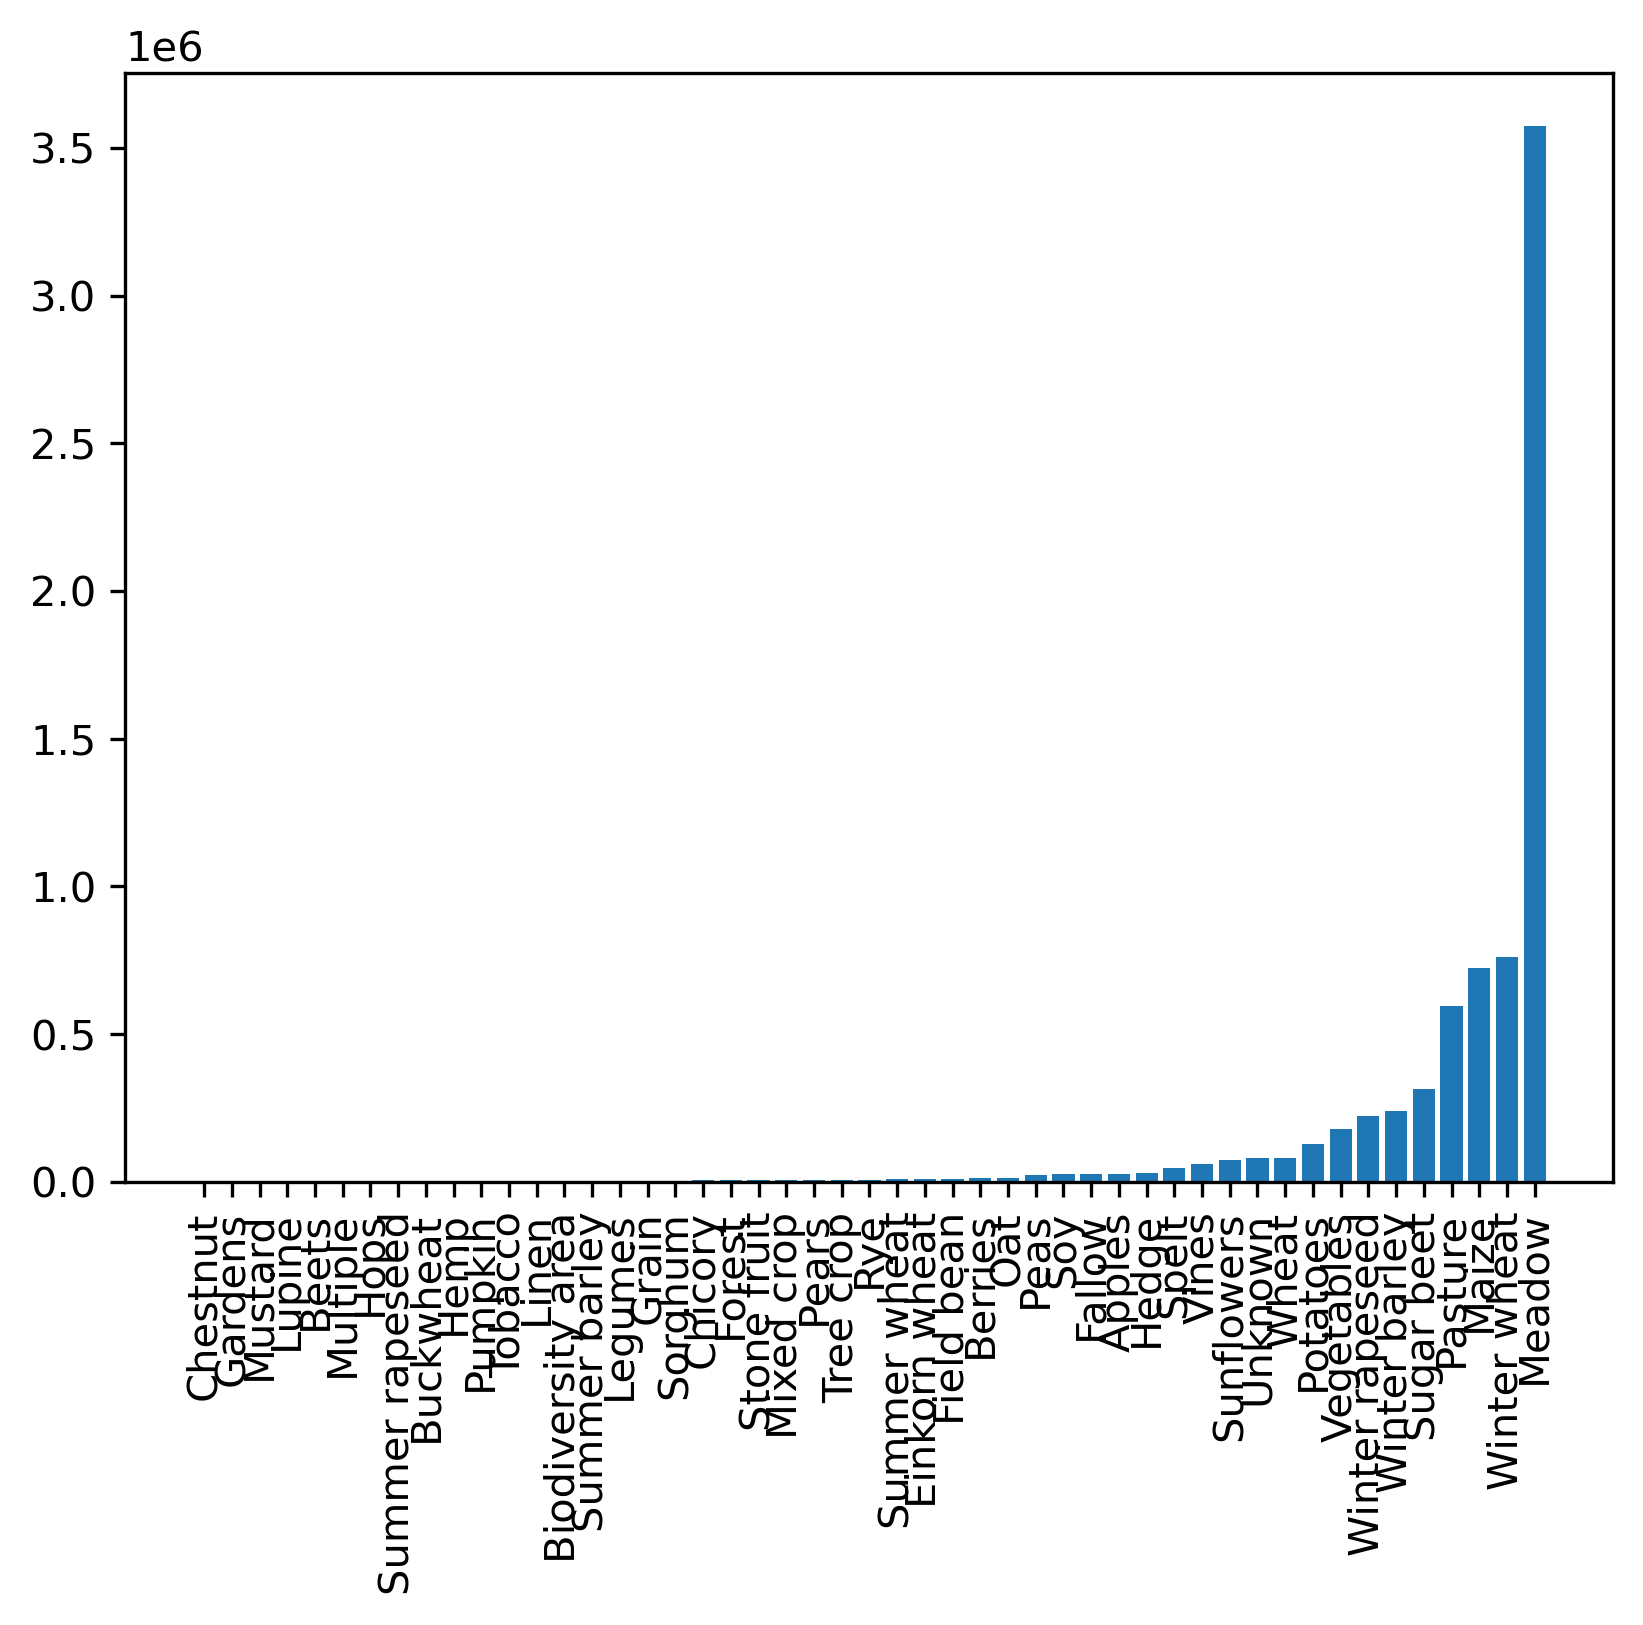
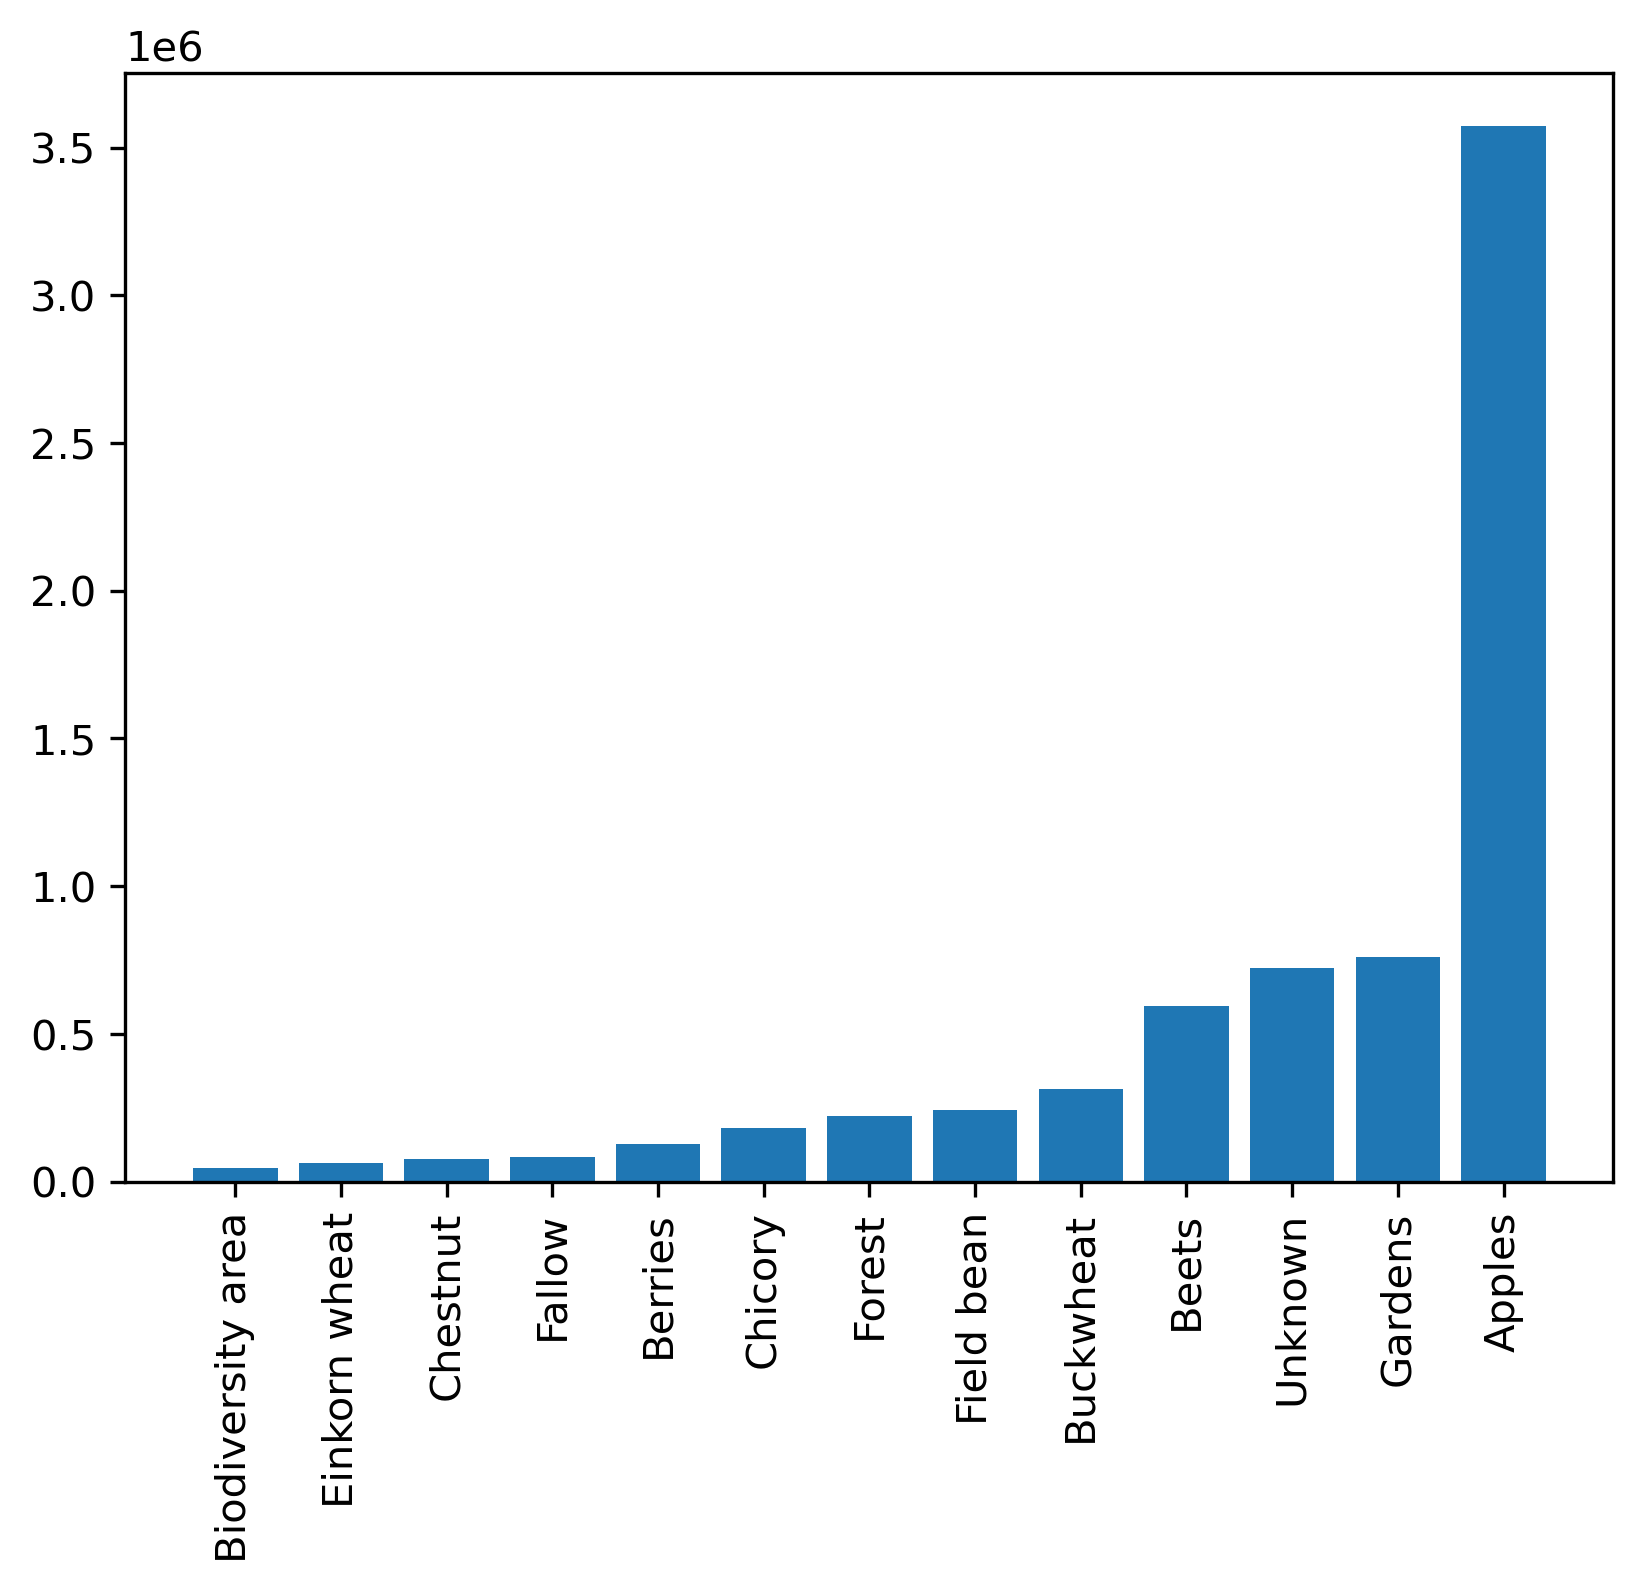
update dataset

diff --git a/CodeRepo/utils/dataset.py b/CodeRepo/utils/dataset.py
@@ -6,22 +6,34 @@ import pickle
 
 
 class Dataset(torch.utils.data.Dataset):
-    def __init__(self, path, time_downsample_factor=1, num_channel=9):
+    def __init__(self, path, time_downsample_factor=1, num_channel=9, loadAllinMem=True):
+        '''
+
+        :param path: Path of dataset
+        :param time_downsample_factor:
+        :param num_channel: 4 = RGB+NIR
+        :param loadAllinMem: True to load all data in memory once (accelerate I/O time)
+        '''
         self.num_channel = num_channel
         self.time_downsample_factor = time_downsample_factor
         self.eval_mode = False
         self.path = path
         self.time_downsample_factor = time_downsample_factor
-        self.hasData = False
-        self.num_samples = 7349476
-        self.load_data()
+        self.loaAllinMem = loadAllinMem
+        self.load_data(loadAllinMem)
 
-    def load_data(self):
+    def load_data(self, loadAllinMem):
         print("Start loading...")
-        # Load all data in memory
-        with h5py.File(self.path, "r", libver='latest', swmr=True) as f:
-            self.data = f["data"][:].copy()
-            self.gt = f["gt"][:].copy()
+        if loadAllinMem:
+            # Load all data in memory
+            with h5py.File(self.path, "r", libver='latest', swmr=True) as f:
+                self.data = f["data"][:].copy()
+                self.gt = f["gt"][:].copy()
+        else:
+            # Open the data file
+            f = h5py.File(self.path, "r", libver='latest', swmr=True)
+            self.data = f["data"]
+            self.gt = f["gt"]
 
         data_shape = self.data.shape
         target_shape = self.gt.shape
@@ -41,7 +53,7 @@ class Dataset(torch.utils.data.Dataset):
         print('Number of classes: ', self.n_classes)
         print('Temporal length: ', self.temporal_length)
         print('Number of channels: ', self.num_channel)
-        self.hasData = True
+
 
     def return_labels(self):
         return self.gt
@@ -50,19 +62,16 @@ class Dataset(torch.utils.data.Dataset):
         return self.num_samples
 
     def __getitem__(self, idx):
-        # if not self.hasData:
-        #     self.load_data()
-
-        X = self.data[idx]
-        target = self.gt[idx]
+        if self.loaAllinMem:
+            X = self.data[idx]
+            target = self.gt[idx]
+        else:
+            X = self.data[idx]
+            target = self.gt[idx]
 
         # Convert numpy array to torch tensor
         X = torch.from_numpy(X)
         target = torch.from_numpy(np.array(target)).float()
-
-        # if self.eval_mode:
-        #     X = X.view()
-        #     target = target.view()
 
         # Temporal down-sampling
         X = X[...,0::self.time_downsample_factor, :self.num_channel]
@@ -102,8 +111,8 @@ def plot_bands(X):
     plt.savefig("bands.png", dpi=300, format="png", bbox_inches='tight')
 
 if __name__ == "__main__":
-    data_path = "D:\jingyli\II_Lab3\data/imgint_trainset.hdf5"
-    traindataset = Dataset(data_path)
+    data_path = "D:\jingyli\TCN-CropClassification\data\imgint_trainset_v2.hdf5"
+    traindataset = Dataset(data_path, loadAllinMem=False)
     X,y = traindataset.__getitem__(0)
     print(X.shape)
     print(y.shape)
@@ -127,5 +136,5 @@ if __name__ == "__main__":
 
     fig = plt.figure()
     plt.bar(label_names_sorted, pix_counts_sorted)
-    plt.xticks( rotation=90)
+    plt.xticks(rotation=90)
     plt.savefig("hist.png", dpi=300, format="png", bbox_inches='tight')

diff --git a/CodeRepo/simple_tcn/config.py b/CodeRepo/simple_tcn/config.py
@@ -13,9 +13,9 @@ config["seed"] = 2021
 
 config["log-interval"] = 500
 
-config["data-path"] = r"D:\jingyli\II_Lab3\data\imgint_trainset.hdf5"
-config["checkpoint-path"] = r"D:\jingyli\II_Lab3\checkpoints"
-config["label-path"] = r"D:\jingyli\II_Lab3\CodeRepo\utils\label_count.pkl"
+config["data-path"] = r"D:\jingyli\TCN-CropClassification\data\imgint_trainset_v2.hdf5"
+config["checkpoint-path"] = r"D:\jingyli\TCN-CropClassification\checkpoints"
+config["label-path"] = r"D:\jingyli\TCN-CropClassification\utils\label_count.pkl"
 
 config["label-names"] = ['Unknown', 'Apples', 'Beets', 'Berries', 'Biodiversity area', 'Buckwheat',
                'Chestnut', 'Chicory', 'Einkorn wheat', 'Fallow', 'Field bean', 'Forest',

diff --git a/CodeRepo/simple_tcn/train.py b/CodeRepo/simple_tcn/train.py
@@ -61,7 +61,7 @@ if torch.cuda.is_available():
     if not CUDA:
         print("WARNING: You have a CUDA device, so you should probably run with --cuda")
 # Initiate variables
-n_classes = 52  # TODO: No.classes = 49? or use 52?
+n_classes = 13  # TODO: No.classes = 49? or use 52?
 input_channels = 4
 output_channels = [n_hunits]*n_levels   # TODO: Hidden units (channels)
 seq_length = 71  # Temporal length per sample
